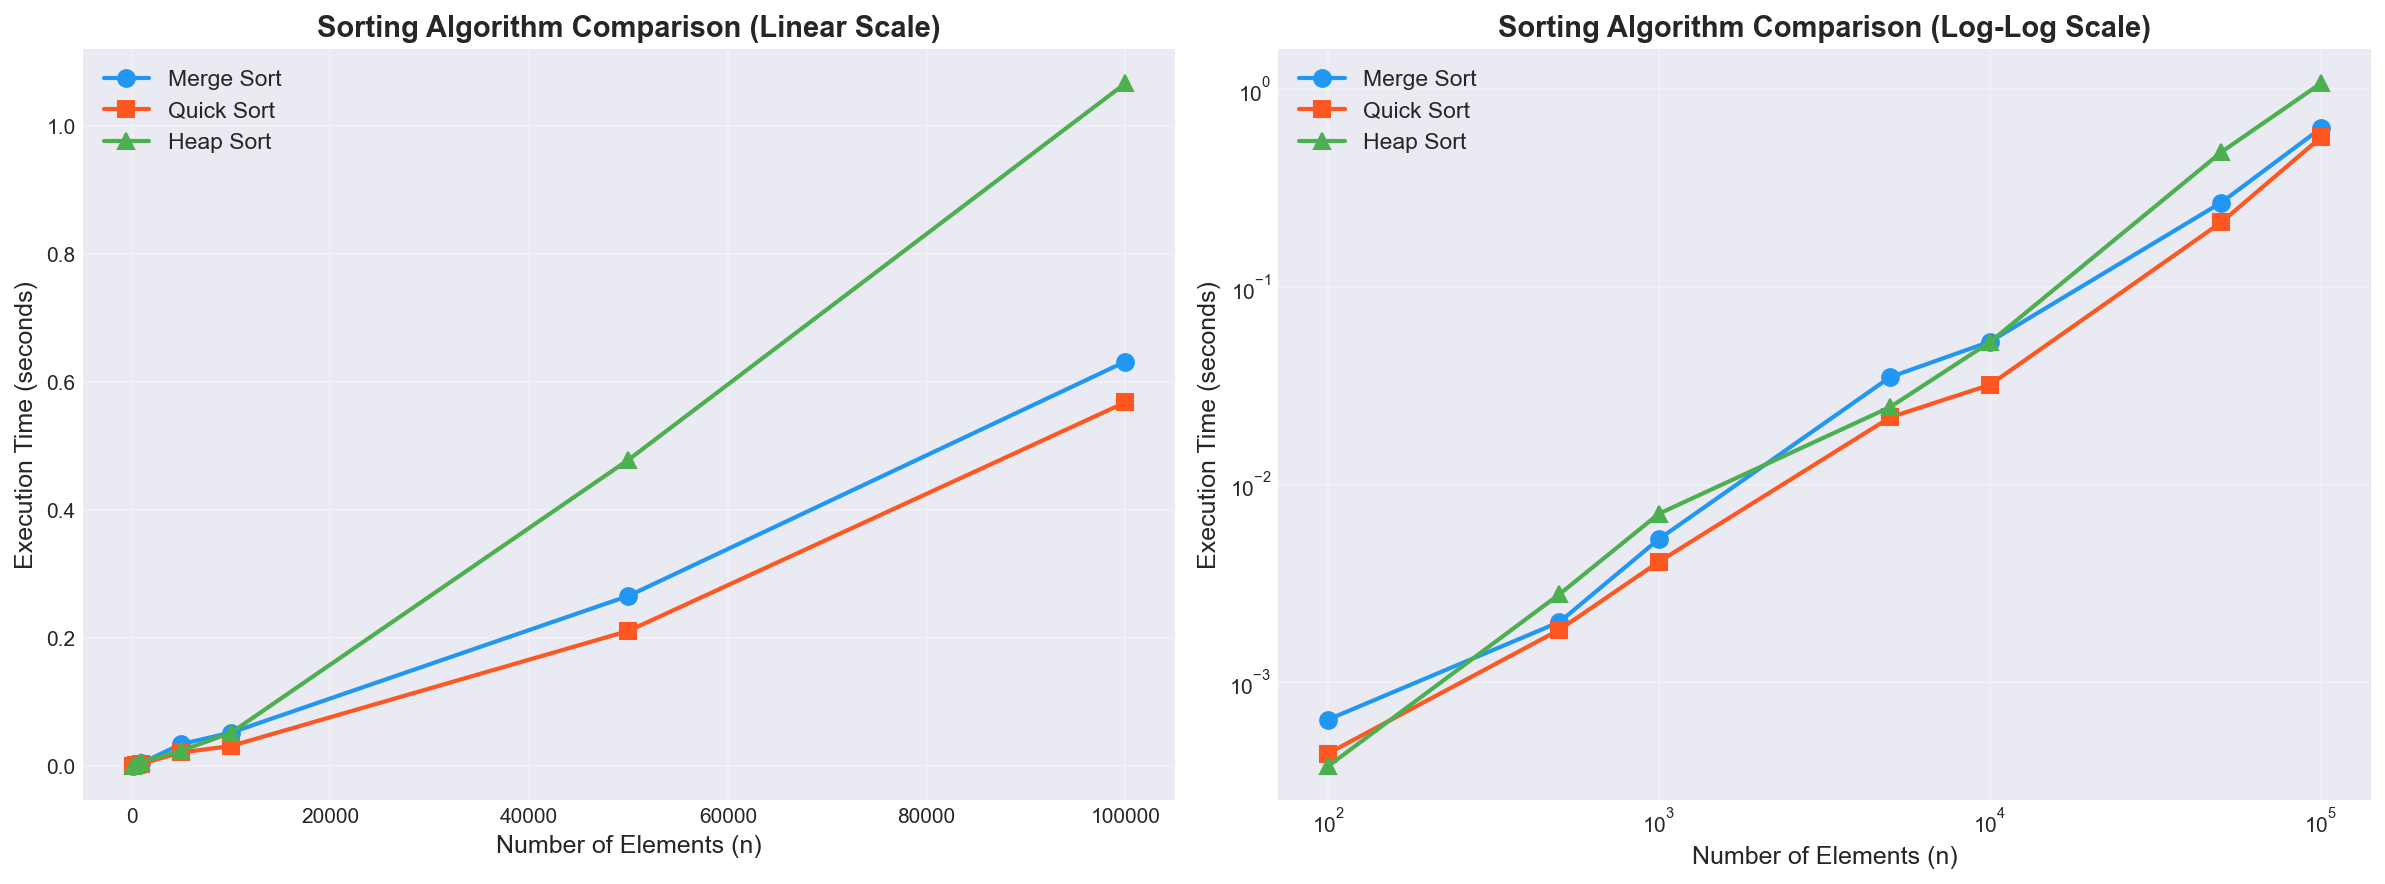
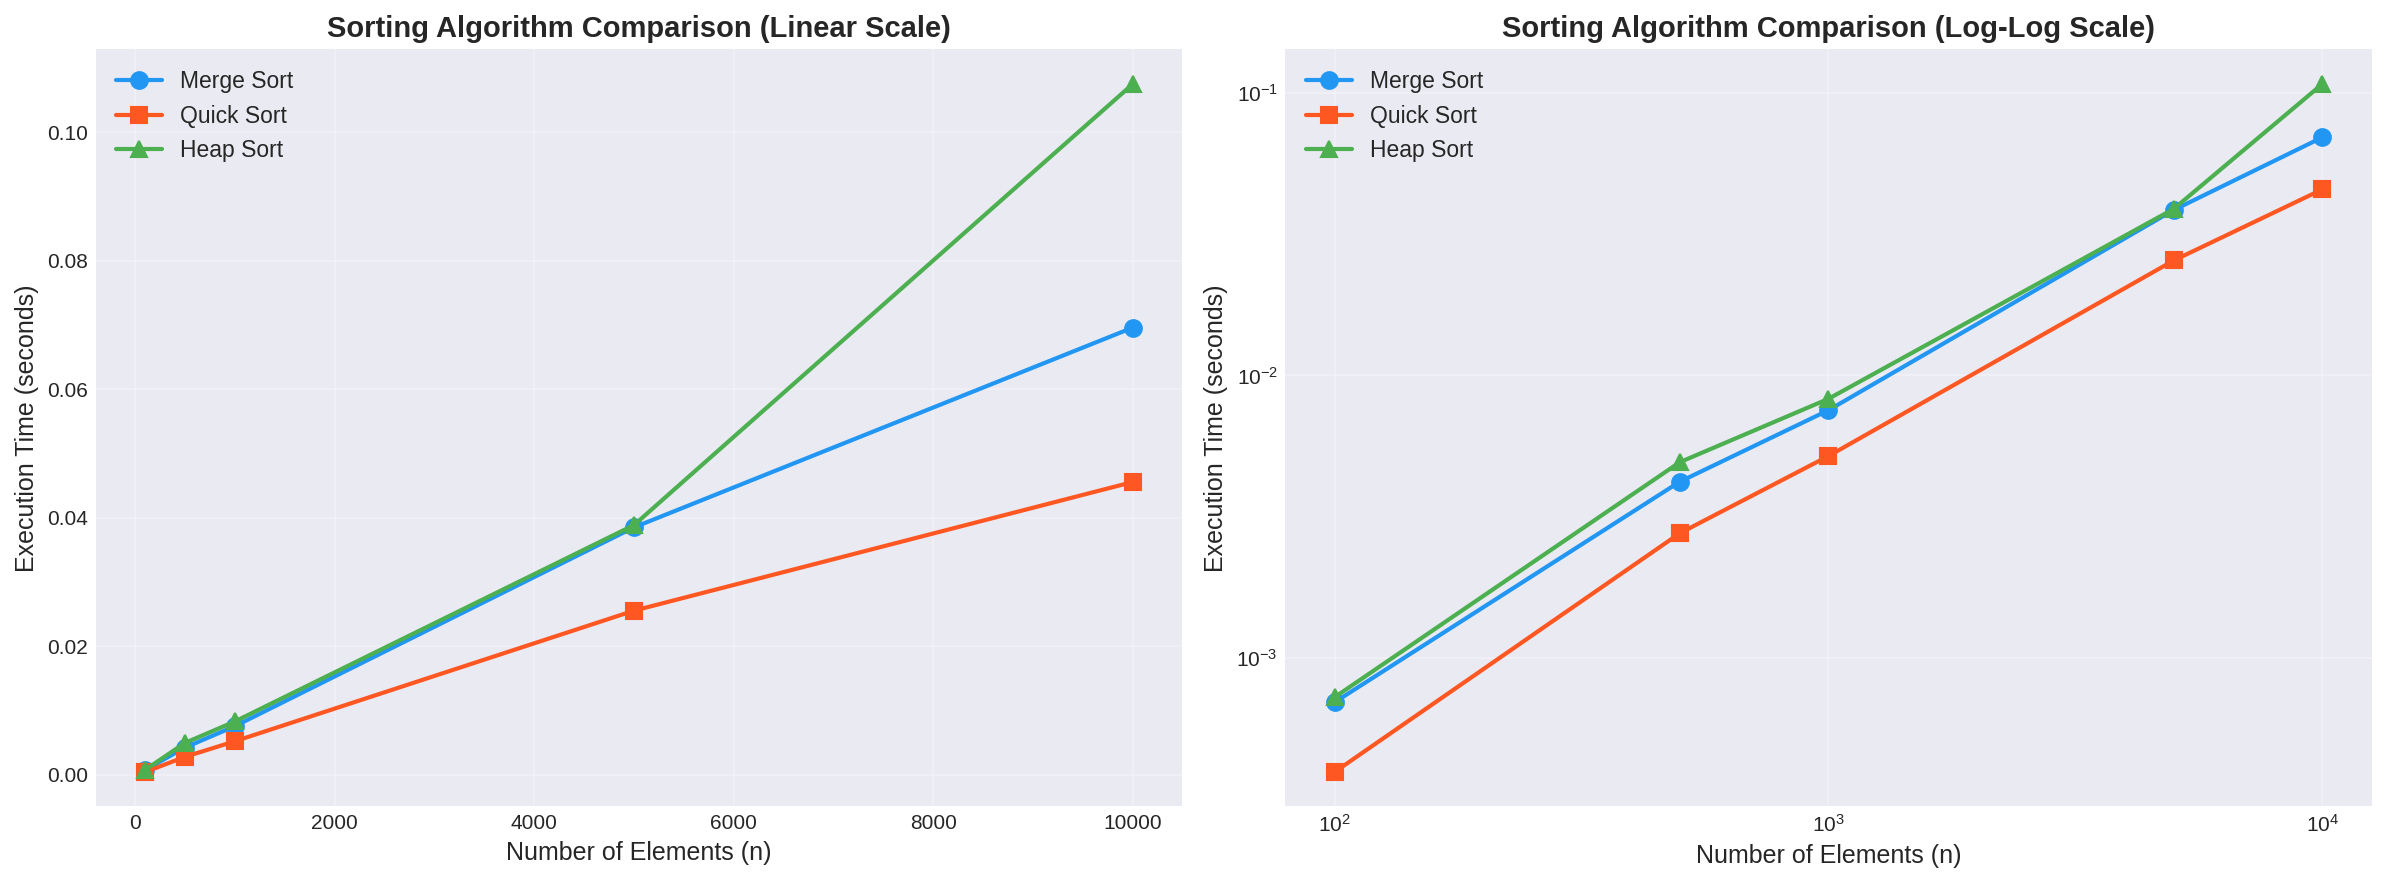
feat: use the generated synthetic dataset for the sorting algorithms

diff --git a/sorting_algorithms.py b/sorting_algorithms.py
@@ -4,8 +4,10 @@ Please refer to README.md for the detailed complexity and real-world analysis.
 """
 
 import time
-import random
 import copy
+import csv
+import json
+from pathlib import Path
 import matplotlib
 matplotlib.use('Agg')  # Non-interactive backend for saving plots
 import matplotlib.pyplot as plt
@@ -216,9 +218,43 @@ def print_complexity_table():
 
 
 # --- TASK 4: Experimental Evaluation ---
-def generate_synthetic_data(n):
-    """Generate synthetic product data with n elements."""
-    return [(i, random.randint(10, 100000)) for i in range(1, n + 1)]
+DATASET_DIR = Path("synthetic_datasets")
+
+
+def load_generated_datasets(dataset_dir=DATASET_DIR):
+    """Load datasets generated by generate_synthetic_data.py from CSV files."""
+    manifest_path = dataset_dir / "manifest.json"
+    if not manifest_path.exists():
+        raise FileNotFoundError(
+            f"Manifest not found: {manifest_path}. "
+            "Run generate_synthetic_data.py first."
+        )
+
+    manifest = json.loads(manifest_path.read_text(encoding="utf-8"))
+    datasets = {}
+    for entry in manifest.get("datasets", []):
+        size = int(entry["size"])
+        csv_path = dataset_dir / entry["file"]
+        if not csv_path.exists():
+            raise FileNotFoundError(
+                f"Dataset file listed in manifest is missing: {csv_path}"
+            )
+
+        rows = []
+        with csv_path.open("r", newline="", encoding="utf-8") as handle:
+            reader = csv.DictReader(handle)
+            for row in reader:
+                rows.append((int(row["Product_ID"]), int(row["Price_ETB"])))
+
+        datasets[size] = rows
+
+    if not datasets:
+        raise ValueError(
+            f"No datasets found in {manifest_path}. "
+            "Regenerate data using generate_synthetic_data.py."
+        )
+
+    return datasets
 
 
 def measure_time(sort_func, data, runs=3):
@@ -235,15 +271,16 @@ def measure_time(sort_func, data, runs=3):
 
 def experimental_evaluation():
     """Run experimental evaluation and return results."""
-    sizes = [100, 500, 1000, 5000, 10000, 50000, 100000]
+    generated_datasets = load_generated_datasets()
+    sizes = sorted(generated_datasets.keys())
     results = {"Merge Sort": [], "Quick Sort": [], "Heap Sort": []}
     
     print("\nRunning experimental evaluation...")
-    print("(This may take a minute for large datasets)\n")
+    print("Using generated datasets from synthetic_datasets/\n")
     
     for n in sizes:
         print(f"  Testing n = {n:>7,}...", end=" ", flush=True)
-        data = generate_synthetic_data(n)
+        data = generated_datasets[n]
         
         # Merge Sort
         t = measure_time(merge_sort, data)
@@ -383,7 +420,7 @@ def main():
     sizes, results = experimental_evaluation()
     print()
     print_timing_table(sizes, results)
-    plot_results(sizes, results, save_path=r"c:\Users\DELL\Desktop\reacJS\DAA\sorting_comparison.png")
+    plot_results(sizes, results, save_path="sorting_comparison.png")
     
     # ---- TASK 5: Real-World Decision ----
     print(separator)
